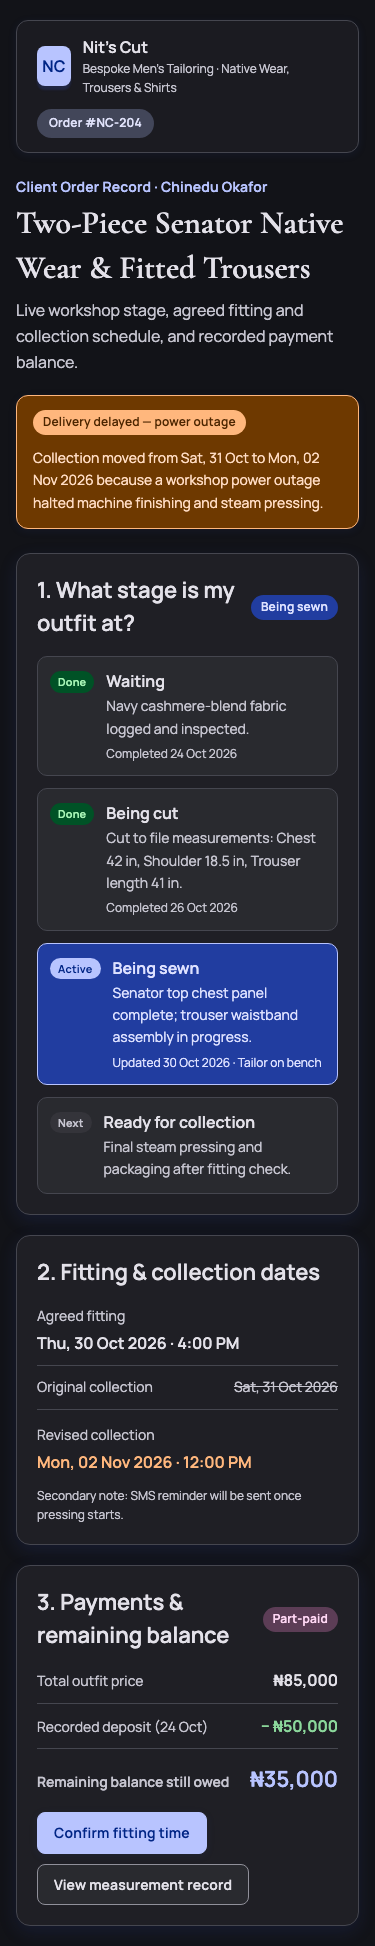
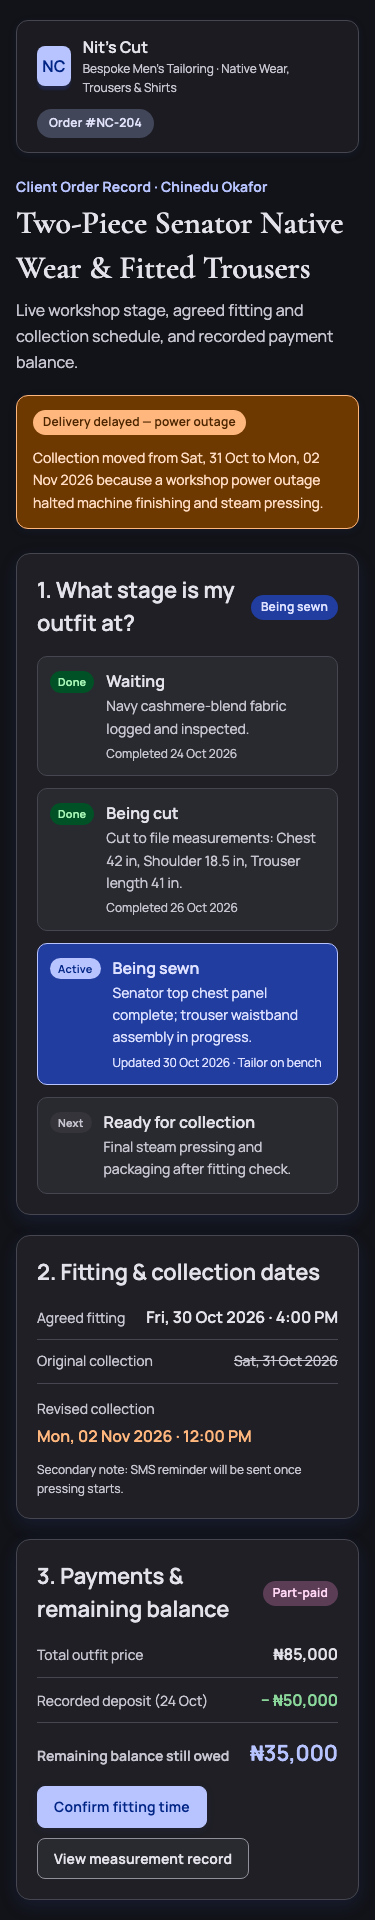
fix(task-01): correct fitting weekday to Fri 30 Oct 2026, refine Q11, and add study guide

diff --git a/task-01-design-system/screen/index.html b/task-01-design-system/screen/index.html
@@ -81,7 +81,7 @@
           <dl class="record-list">
             <div class="record-row">
               <dt class="nc-type-body-medium">Agreed fitting</dt>
-              <dd class="nc-type-title-medium">Thu, 30 Oct 2026 · 4:00 PM</dd>
+              <dd class="nc-type-title-medium">Fri, 30 Oct 2026 · 4:00 PM</dd>
             </div>
             <div class="record-row">
               <dt class="nc-type-body-medium">Original collection</dt>

diff --git a/outputs/screen-without-system/index.html b/outputs/screen-without-system/index.html
@@ -75,7 +75,7 @@
           <dl class="date-list">
             <div class="date-row">
               <dt>First fitting</dt>
-              <dd>Thu, 30 Oct 2026 · 4:00 PM</dd>
+              <dd>Fri, 30 Oct 2026 · 4:00 PM</dd>
             </div>
             <div class="date-row">
               <dt>Original collection</dt>

diff --git a/task-01-design-system/docs/interview-and-defects-study-guide.md b/task-01-design-system/docs/interview-and-defects-study-guide.md
@@ -1,0 +1,267 @@
+# Nits Cut Task 1 interview study guide
+
+Prepared on 31 October 2026. This is a learning companion to your formal interview answers and defect log. Read it to understand the ideas, then practise explaining them in your own words. The sample answers describe project work; they do not mean you must claim you personally wrote every script.
+
+## Your project in everyday words
+
+Nit's Cut is a fictional business that makes men's native wear, trousers and shirts. While learning tailoring, you saw power cuts and too much work cause missed deadlines. Your demonstration screen helps customers see their outfit's stage, fitting and collection dates, and payment balance.
+
+Task 1 builds the visual rules for that screen and proves that an AI agent followed them. It does not prove that a working order database, payment service or SMS system exists. The screen uses sample information.
+
+Think of the design system as a tailoring specification. A tailor needs agreed fabric, measurements and finishing instructions. An agent needs agreed colours, text styles and rules for applying them. You still inspect the finished result.
+
+## Small dictionary
+
+| Word | Simple meaning | Example in your project |
+|---|---|---|
+| Token | A named, reusable design setting | A colour, text size or shadow |
+| Primitive | A basic value from the palette | The blue #334DAF |
+| Semantic role | A name describing a colour's job | Primary action colour or page background |
+| Alias or reference | A setting that points to another setting | Primary points to a palette tone |
+| Component | A reusable piece of the interface | Button, badge or card |
+| Typography | Rules for how text looks | Font, weight, size, spacing and line height |
+| Contrast | How different text is from its background | Dark text on a pale card |
+| Theme | A coordinated set of colour assignments | Light or Dark |
+| JSON | A structured file that stores the exported settings | Your Figma token export |
+| CSS | Instructions telling the browser how a page looks | Apply the primary colour to a button |
+| Validator | A script that checks rules | Reject a colour role containing a raw hex value |
+| Regression | Something that previously worked becoming wrong | A role losing its palette reference |
+| Specificity | The priority used when CSS rules compete | A general rule unexpectedly beating a colour class |
+| Glyph | A drawn character inside a font | The Naira sign, ₦ |
+
+## The twelve interview questions
+
+### 1 How would you structure design tokens
+
+**What they are asking:** How do you organise the settings so they are easy to reuse and change?
+
+**A simple answer:** I separate basic values from their jobs. The palette stores my actual colour values. Roles such as primary, surface and on-surface point to that palette. The screen uses the roles. I also keep reusable text styles and shadows. A larger project could add settings for individual components.
+
+**Your example:** In Light mode, the primary role points to primary tone 40, which is #334DAF. A button asks for primary rather than copying that blue into its own stylesheet.
+
+**Remember:** Basic value → job → screen element. The organisation is similar to keeping a fabric specification separate from the instruction saying where that fabric is used.
+
+### 2 When is a token change breaking
+
+**What they are asking:** When can changing one shared setting damage existing screens?
+
+**A simple answer:** A change is breaking when something using the setting no longer works as intended. Deleting a colour name can remove styling. Changing a colour can make text difficult to read. Increasing text size can make a button label overflow. I check the actual screens, not just whether the setting still exists.
+
+**Your example:** A button background and its text colour must still work together after a brand update. Passing a colour check alone does not prove every layout still works.
+
+### 3 How would you support multiple brands and themes
+
+**What they are asking:** Can the same screen work with different appearances without rewriting every button and card?
+
+**A simple answer:** I keep the role names the same and change what they point to. Surface can point to a pale tone in Light mode and a dark tone in Dark mode. Components continue asking for surface. Another brand could supply a different palette and fonts while keeping those same jobs.
+
+**Your current position:** Both Light and Dark now have 57 role assignments in CSS. Multiple brands are a possible extension, not something already built. The extra theme data came from a previously captured Figma state because a fresh Figma connection was unavailable. It was not a new live export.
+
+### 4 Can tokens guarantee accessible contrast
+
+**What they are asking:** Does using approved colour names automatically make all text readable?
+
+**A simple answer:** No. A colour can be correct but used on the wrong background. Transparency, pictures or a competing CSS rule can also change the result. Our checked pairs pass their thresholds, but I still need to inspect how the screen actually uses them.
+
+**Your example:** D8 showed that the screen could use token names and still display unintended colours because another CSS rule won.
+
+**Remember:** A good ingredient does not guarantee a good finished result. Passing these checks is not a claim that the whole application meets every accessibility requirement.
+
+### 5 How do you check contrast
+
+**What they are asking:** What practical steps do you take to make text and important controls visible?
+
+**A simple answer:** First I check the intended foreground and background pairs. Then I check that the code uses the right roles. Finally I inspect the colours the browser actually displays. I repeat the checks for the themes and states I use, and fix or restrict combinations that fail.
+
+**Numbers to remember:** Normal text generally needs at least 4.5 to 1 for AA. Large text needs 3 to 1. Essential non-text visual information also has applicable 3 to 1 requirements. There are exceptions, so these are not a rule that every decorative line must pass.
+
+**Your evidence:** The colour document records 116 selected pairs across two modes. The browser report also records the corrected date and payment colours. Do not claim every interactive state was tested unless its evidence exists.
+
+### 6 What is the difference between A AA and AAA
+
+**What they are asking:** Do you understand the different levels of accessibility requirements?
+
+**A simple answer:** A covers basic requirements. AA includes A and adds further requirements; it is a common target. AAA includes both earlier levels and adds stricter requirements. These levels cover much more than colours, including keyboard use and how people understand and navigate content.
+
+**Useful contrast example:** For normal text, AA requires 4.5 to 1 and AAA requires 7 to 1. For large text, those figures are 3 to 1 and 4.5 to 1. A does not set a minimum numeric text contrast ratio. Reflow and Text Spacing are AA requirements.
+
+**Do not say:** “My app is AAA because some text pairs exceed 7 to 1.” That checks one part of accessibility, not the whole page.
+
+### 7 Why is semantic HTML important
+
+**What they are asking:** Why use the proper HTML element instead of making everything look right with styling?
+
+**A simple answer:** The proper element tells the browser and assistive technology what something is. A heading identifies a section. A real button has built-in keyboard behaviour. A list describes related items. This helps people understand and operate the page.
+
+**Your example:** The tailoring stages use an ordered list. Payment labels and values use a description list. The main garment name is a heading.
+
+**Limit:** A button still needs working application behaviour. A status region can support announcements when its content changes; a static screenshot does not prove that screen readers announced it.
+
+### 8 How do you hand a Figma design to developers
+
+**What they are asking:** How do you transfer the actual design rules rather than just send a picture?
+
+**A simple answer:** I provide named Figma variables and styles, export their settings, and check the export. A script converts the data into CSS. I provide usage instructions and known limitations, then compare the built screen with the intended system.
+
+**Your example:** The first export omitted colour variables. The next included them but lacked separate theme mappings. Checking the files caught both gaps. The supplementary saved Figma state supplied the missing mode assignments.
+
+**Remember:** A handoff includes data, instructions and verification. Exporting a file is only one step.
+
+### 9 Why do AI interfaces look generic and what do you provide
+
+**What they are asking:** How do you give the agent enough direction to make this business recognisable?
+
+**A simple answer:** If I ask only for a good-looking screen, the agent may choose familiar colours and layouts. I give it the business brief, the customer's questions, the generated design settings and explicit rules. Then I inspect its work and ask it to identify the styles it used.
+
+**Your example:** Cormorant Garamond gives large headings a tailored character. Manrope handles everyday details and payment figures. The agent had to use semantic roles instead of choosing new colours per element.
+
+### 10 Why is Display Large line height 79 point 8 pixels
+
+**What they are asking:** Can you explain a precise decision and its trade-offs?
+
+**A simple answer:** The text size is 57 pixels. I used the allowed multiplier 1.4, so 57 × 1.4 equals 79.8. It is the smallest multiplier permitted by the assessment and keeps the line box relatively compact. Using 1.5 makes it 85.5 pixels and takes more space. Using 1.3 makes it 74.1 pixels but breaks the assessment's rule.
+
+**Be honest:** The original spacing specimens were single-line samples. They do not establish whether a two-line heading would feel too loose or crowded. Those visual trade-offs would need a separate comparison.
+
+**Do not confuse:** Letter spacing changes gaps horizontally. Line height controls the vertical space allocated to a line of text.
+
+### 11 What would you organise differently next time
+
+**What they are asking:** Can you identify an improvement and explain the effort it would require?
+
+**A simple answer:** I would choose an export process that includes explicit theme names and all role mappings from the start. Our first colour export had only one mode without a clear mode label. We needed a second data file and extra conversion logic. A clearer export structure would make future updates easier to check.
+
+**The cost:** Setting up and maintaining a more suitable exporter, updating the converter, and validating both themes whenever the design changes.
+
+**Keep it simple:** Say “an explicit structure for Light and Dark mappings.” You do not need to claim that a particular custom JSON field is an official standard.
+
+### 12 Why is exporting hex values not enough for one source of truth
+
+**What they are asking:** Why can one file of colours still lead to inconsistent screens?
+
+**A simple answer:** A list of colours does not explain their jobs. Different elements may share a colour today but need different colours in another theme. I need semantic roles pointing to the palette, plus a repeatable way to regenerate CSS when the source changes. Otherwise the exported file becomes an old copy that people patch by hand.
+
+**Your strongest example:** In the deliberate experiment, we changed the primary palette to green. Correct references followed it. A role containing a fixed blue value stayed blue. We captured that inconsistency and deleted the experiment branch without merging it. The working CSS is now restored to blue.
+
+## Understanding your defects
+
+A defect record explains what was wrong, its effect, how it was discovered and its current status. It is evidence that you inspected the work. Some entries are corrected mistakes; others are remaining limits.
+
+### D1 The export left out Light mode
+
+**In simple words:** The file included colour roles but only one version of each role. That was not enough to build both themes.
+
+**Now:** Both themes are generated using an additional file extracted from saved Figma state. All 114 alias targets match that saved state. This review did not compare it with today's live Figma file.
+
+**Lesson:** Check the contents of an export, not just its filename or size.
+
+### D2 The export did not label its theme
+
+**In simple words:** A colour list without a Light or Dark label can be assigned to the wrong theme.
+
+**Now:** The converter reads explicit mode information from the supplementary file. The original export is preserved with its limitation.
+
+**Lesson:** Values need context. Like an unlabelled set of garment measurements, correct numbers can be used for the wrong purpose.
+
+### D3 Shadow conversion assumes the brand colour
+
+**In simple words:** The converter knows how to make the three current blue shadows follow the primary palette. A future shadow using another colour would need extra handling. The CSS technique also needs browser support.
+
+**Now:** This remains a documented limitation, not a current failure of the three chosen shadows. The validator rejects a raw colour if the converter falls back to one.
+
+**Lesson:** A script can work for today's inputs without handling every possible future input.
+
+### D4 A check complained about a comment
+
+**In simple words:** The validator saw an old collection name in an explanatory comment and wrongly treated it as active styling.
+
+**Now:** Fixed by excluding comments from that check.
+
+**Lesson:** Checks can have bugs too. Investigate a failure instead of automatically changing correct work to silence it.
+
+### D5 The agent guessed that the wrong font rendered
+
+**In simple words:** The agent initially blamed a fallback font without checking the browser. Later inspection and a matching screenshot hash supported that the intended fonts had loaded. The unusual payment digits were connected to the wrong text style, D6.
+
+**Now:** The diagnosis is corrected. Font files are also stored with the project, with their licences, so the page no longer needs the external font service at runtime.
+
+**Lesson:** A declared font name or a visual guess is not proof of the font actually used. Self-hosting removes one external dependency; it does not guarantee instant loading or an offline application.
+
+### D6 The balance used the heading font
+
+**In simple words:** The agent used Cormorant Garamond for the remaining balance even though your rules assign payment figures to Manrope.
+
+**Now:** Fixed to Title Large: Manrope 600, 22-pixel text and 33-pixel line height.
+
+**Lesson:** A valid design-system style can still be used on the wrong element. The problem was a mismatch with your rules, not a universal rule that serif numbers are unreadable.
+
+### D7 The Naira symbol uses a fallback font
+
+**In simple words:** The browser report shows that the digits use Manrope while the ₦ symbol uses a system font with the current font setup.
+
+**Now:** This remains a documented limitation. Its appearance may vary on other operating systems. The observed result concerns the bundled font setup; avoid generalising it to every Manrope font release.
+
+**Lesson:** Check real currency symbols and other characters your customers need, not only ordinary English letters.
+
+### D8 A CSS rule overruled the intended colours
+
+**In simple words:** The general rule for record values had higher priority than the rules for the revised date, paid amount and balance. Those values stayed the general text colour.
+
+**Now:** More specific selectors apply the intended semantic colours. The saved browser report records passing contrast for the checked values in both themes.
+
+**Lesson:** Choosing the right token does not help if the browser applies another rule instead.
+
+### D9 The broken experiment remained in the working CSS
+
+**In simple words:** The experiment branch was gone, but the file used by the screen still contained its broken green-and-blue settings. An independent validation caught this.
+
+**Now:** The broken file is archived as evidence and the application CSS has been regenerated. All 15 current checks pass. The project log attributes the reappearance to an old editor buffer saving over the regenerated file; this review confirms the corrected file, not the historical editor event itself.
+
+**Lesson:** Check the actual files after cleanup. A branch being deleted does not prove the working folder is correct.
+
+## What this review confirmed
+
+- The validator passes all 15 checks on 31 October 2026.
+- Primary tone 40 is #334DAF again and colour roles reference primitives.
+- Both themes have 57 roles. Their 114 saved alias targets match the previously captured Figma state (`work/figma-m3-state.json` → `evidence/06b-tokens-colour-roles-modes-from-figma-state.json`), which is distinct from a fresh live Figma export.
+- The date and payment selector fix (`D8`) exists in the CSS and is verified in the rendered browser report for both Light and Dark themes.
+- The broader raw-colour report (`evidence/07-raw-value-search.txt`) includes commands, explicit exclusions, full code-file matches and explanations of legitimate matches.
+- The brief is 360 words by whitespace count. Each formal interview answer remains under 200 words (134 to 182 words).
+- The refreshed Light (`10c-screen-with-system-light.png`), Dark (`10-screen-with-system.png`), mobile (`10d-screen-with-system-mobile-dark.png`) and without-system (`09-screen-without-system.png`) screenshots show the corrected screen and fitting date (`Fri, 30 Oct 2026 · 4:00 PM`), with earlier captures preserved (`09a`, `10a`, `10b`). The browser report (`evidence/step7-font-loading-verification.txt`) confirms no horizontal overflow at 1280 pixels or 375 pixels.
+- The regression commit (`017694d`) is not contained in any active branch.
+
+## Final refinements completed on 31 October 2026
+
+1. **Fitting date day-of-week corrected:** Changed `"Thu, 30 Oct 2026 · 4:00 PM"` to `"Fri, 30 Oct 2026 · 4:00 PM"` in both `screen/index.html` and `outputs/screen-without-system/index.html`, preserved `09a-screen-without-system-before-date-fix.png` alongside `10a` and `10b`, and refreshed `09`, `10`, `10c`, `10d`, and `step7-font-loading-verification.txt` along with their SHA-256 hashes in `docs/evidence-index.md`.
+2. **Formal interview answer 11 simplified:** Updated Answer 11 in `docs/interview-answers.md` to recommend an explicit structure for Light and Dark role mappings (either named `Light` and `Dark` mode maps in one JSON export or separate Light/Dark files) without presenting custom `$extensions.modes.*` keys as a required official standard.
+3. **Saved Figma state vs. fresh live export distinguished:** Kept explicit across all docs that `06b-tokens-colour-roles-modes-from-figma-state.json` was extracted from the previously captured Figma Variables state (`work/figma-m3-state.json`) because live Figma MCP sign-in was unavailable (`The plugin "figma" needs the user to sign in`), rather than claiming a fresh live export from Figma today.
+4. **Remaining limitations kept visible (`D3` and `D7`):** Kept `D3` (shadow `color-mix()` assumes `primary/40` `#334DAF` and modern browser support) and `D7` (the bundled `Manrope` font setup falls back to the system font `.SF NS` for the single Naira symbol `₦`, `U+20A6`) clearly visible as remaining limitations rather than calling all defects fixed.
+
+## How to practise
+
+Start with your own explanation of the tailoring problem. Then answer each question aloud without reading. For every answer, give one project example and say where you would show the evidence. If you cannot explain a word, return to the dictionary rather than memorising it.
+
+Practise these demonstrations: explain palette versus role; calculate 57 × 1.4; show the missing collections in the first export; show the wrong payment style and its correction; compare the blue screen with the deliberately broken green-and-blue screen.
+
+Be clear about your contribution: you chose the business and design direction, instructed the agent, reviewed the results and learned to check its claims. Only describe actions as your own when that reflects what you actually did.
+
+Your remaining learner work is understanding and rehearsing the answers, final submission review, and deciding whether to record the optional four-minute walkthrough. This guide does not claim that rehearsal or recording has happened.
+
+## Where to find the proof
+
+Paths below are relative to task-01-design-system.
+
+| Topic | File |
+|---|---|
+| Formal answers | docs/interview-answers.md |
+| Detailed defect history | docs/defects.md |
+| Colour mappings and ratios | docs/colour-roles.md |
+| Fifteen text styles | docs/type-scale.md |
+| Why defaults changed | docs/divergences.md |
+| Original agent answer | evidence/08-agent-typography-answer.txt |
+| Later corrections | evidence/08b-typography-and-font-fixes-verification.txt |
+| Browser font and colour report | evidence/step7-font-loading-verification.txt |
+| Broken experiment | evidence/11-broken-referencing.png |
+| Deleted branch record | evidence/12-git-log-branch-unmerged.txt |
+
+Accessibility references for further reading: [W3C Reflow](https://www.w3.org/WAI/WCAG22/Understanding/reflow.html), [W3C Text Spacing](https://www.w3.org/WAI/WCAG22/Understanding/text-spacing.html), and [W3C Focus Appearance](https://www.w3.org/WAI/WCAG22/Understanding/focus-appearance.html).

diff --git a/task-01-design-system/docs/evidence-index.md b/task-01-design-system/docs/evidence-index.md
@@ -7,7 +7,7 @@
[5 lines of base64/hex data omitted]
 
 ## Step 5 One-Line Diff (Incomplete vs. Complete Export)
 
@@ -25,17 +25,18 @@ The incomplete export was missing all four colour variable collections; I notice
   1. `task-01-design-system/screen/` check for raw hex/rgb/hsl colour values (`exit=1`, `0` matches).
   2. `task-01-design-system/screen/` check for direct primitive references `--nc-ref-*` (`exit=1`, `0` matches).
   3. Per-file match counts across the whole repository with explanations for every legitimate match category (`nc-tokens.css` primitives, `11b-broken-referencing-nc-tokens.css` regression archive, `outputs/screen-without-system/styles.css` intentional comparison screen, seed checks in `validate-css.mjs` and `work/m3/generate.mjs`, JSON exports, and docs).
[3 lines of base64/hex data omitted]
 - `08b-typography-and-font-fixes-verification.txt`: separate record of the browser font-loading investigation (correcting the unsupported `Georgia` fallback claim in `08-agent-typography-answer.txt`), the fixes applied (`nc-type-title-large` on `₦35,000`, locally bundled `.woff2` fonts with `OFL-*.txt` licence files in `screen/fonts/`, and the `D8` `.record-row dd` specificity fix), and the Dark/Light/mobile verification results.
[14 lines of base64/hex data omitted]
 
 ## Step 8 — The Deliberate Regression
 

diff --git a/task-01-design-system/docs/decision-log.md b/task-01-design-system/docs/decision-log.md
@@ -63,4 +63,9 @@ Observed result: `docs/interview-answers.md` (12/12 answers passing word-count c
 ## Final Task 1 reconciliation, Light-mode generation, D8 fix, and local commit — 2026-10-31
 Requirement: Restore `tokens/generated/nc-tokens.css` (preserving `11b-broken-referencing-nc-tokens.css`), fix the `D8` `.record-row dd` specificity bug, complete Light-mode support from Figma without overwriting Step 5 exports, verify font rendering and desktop/mobile layout without clipping, update `07-raw-value-search.txt` across the entire first-party codebase, shorten `business-brief.md` below 400 words total, reconcile all docs/checklists, audit Task 1 requirements, and create a local Git commit on `main`.
 Decision and reason: Archived the broken Step 8 CSS as `evidence/11b-broken-referencing-nc-tokens.css` (`0d52ebd7…`), extracted both Figma modes (`Light` `19:1` and `Dark` `19:2`) from `work/figma-m3-state.json` into `evidence/06b-tokens-colour-roles-modes-from-figma-state.json` (`9042051d…`) after live Figma MCP reported `The plugin "figma" needs the user to sign in`, extended `build-css.mjs` and `validate-css.mjs` to emit and validate `:root, [data-theme="light"]` and `[data-theme="dark"]` (`15/15` checks passing, `evidence/step6b-light-and-dark-css-validation.txt`), fixed `.record-row dd.<class>` specificity and mobile `@media (max-width: 48rem)` responsive stacking in `screen/styles.css`, preserved `10b-screen-with-system-before-d8-specificity-fix.png` (`620dad09…`), refreshed `10-screen-with-system.png` (`4f30bdcf…`) plus `10c-screen-with-system-light.png` (`a0e5bb40…`) and `10d-screen-with-system-mobile-dark.png` (`d3ca74b0…`), updated `07-raw-value-search.txt` across `task-01-design-system/`, `outputs/`, and `work/`, shortened `business-brief.md` to 360 words total (including note and headings), and reconciled all documentation.
-Observed result: All 15 CSS validation checks pass (`exit=0`); `0` raw colours and `0` `--nc-ref-*` references in `task-01-design-system/screen/`; Dark and Light semantic overrides verified above `4.5:1` AA contrast; desktop (`1280×960`) and mobile (`375×812`) viewports verified with zero horizontal overflow; local commit created on `main` (nothing pushed).
+Observed result: All 15 CSS validation checks pass (`exit=0`); `0` raw colours and `0` `--nc-ref-*` references in `task-01-design-system/screen/`; Dark and Light semantic overrides verified above `4.5:1` AA contrast; desktop (`1280×960`) and mobile (`375×812`) viewports verified with zero horizontal overflow; local commit `3576087` created on `main` (nothing pushed).
+
+## Fitting date correction (`Fri, 30 Oct 2026`), Answer 11 refinement, and study guide update — 2026-10-31
+Requirement: Correct `"Thu, 30 Oct 2026"` to `"Fri, 30 Oct 2026"` in both demonstration screens while preserving historical evidence; revise Interview Answer 11 without presenting `$extensions.modes.*` as a required official standard; update `docs/interview-and-defects-study-guide.md` and `docs/evidence-index.md`; re-verify tokens and screenshots; and commit locally on `main`.
+Decision and reason: Preserved `09a-screen-without-system-before-date-fix.png` (`7b7d4de6…`), updated `screen/index.html` and `outputs/screen-without-system/index.html` to `"Fri, 30 Oct 2026 · 4:00 PM"`, refreshed `09`, `10`, `10c`, `10d`, and `step7-font-loading-verification.txt` via `tokens/capture-and-verify-screen.mjs`, simplified Answer 11 in `docs/interview-answers.md` (`175` words), and updated `docs/interview-and-defects-study-guide.md`, `docs/evidence-index.md`, and `docs/defects.md` (keeping `D3` and `D7` clearly marked as open limitations).
+Observed result: `validate-css.mjs` passes `15/15` checks (`exit=0`); all 12 interview answers are `134`–`182` words; refreshed screenshots and SHA-256 hashes verified and committed locally on `main`.

diff --git a/task-01-design-system/docs/prompts.md b/task-01-design-system/docs/prompts.md
@@ -181,3 +181,29 @@ The 57 exported role aliases match the documented **Dark** column of `docs/colou
 5. **Updated `evidence/07-raw-value-search.txt`:**
    - Searched the entire first-party codebase (`task-01-design-system/`, `outputs/`, `work/`) with explicit exclusions (`--exclude-dir=.git --exclude-dir=node_modules --exclude-dir=.local-instruction-archive --binary-files=without-match`), recorded exact commands and full outputs, explained all legitimate matches outside `screen/`, and confirmed `0` raw colour values and `0` `--nc-ref-*` primitive references in `task-01-design-system/screen/`.
 
+### Prompt 5 (verbatim, 2026-10-31)
+
+> Finish the remaining Task 1 corrections in /Users/blk/Developer/Five5 assessment task.
+>
+> Read the current project instructions and inspect the working tree first.
+>
+> 1. Correct the fitting date from “Thu, 30 Oct 2026” to “Fri, 30 Oct 2026” wherever it appears in the current demonstration screens. Preserve historical evidence. Refresh affected current screenshots and verification records, including their hashes.
+> 2. Revise interview answer 11 so it recommends explicit Light and Dark mappings without presenting $extensions.modes.Light and $extensions.modes.Dark as a required official standard. Keep the answer under 200 words.
+> 3. Update docs/interview-and-defects-study-guide.md to reflect those corrections. Preserve its simple explanations and distinguish saved Figma state from a fresh live export.
+> 4. Run the relevant token validation and screenshot checks. Confirm the blue brand palette, both themes, correct fonts and date/payment colours remain intact.
+> 5. Update the evidence index and relevant documentation with actual results. Keep D3 and D7 visible as remaining limitations.
+> 6. Follow the commit-quality rules, review and stage only the relevant files, and create a local commit including the study guide. Do not push or rewrite history.
+>
+> Report the checks, commit ID and remaining learner actions. Do not mark my interview rehearsal or optional walkthrough as completed. Stop before Task 2.
+
+### What the agent did
+
+1. **Fitting date correction and screenshot refresh:**
+   - Preserved `evidence/09a-screen-without-system-before-date-fix.png` (`7b7d4de6…`) alongside `10a-screen-with-system-before-fixes.png` (`c5e0252e…`) and `10b-screen-with-system-before-d8-specificity-fix.png` (`620dad09…`).
+   - Changed `"Thu, 30 Oct 2026 · 4:00 PM"` to `"Fri, 30 Oct 2026 · 4:00 PM"` in `task-01-design-system/screen/index.html` and `outputs/screen-without-system/index.html`.
+   - Reran `tokens/capture-and-verify-screen.mjs` to refresh `09-screen-without-system.png` (`1baf3c25…`), `10-screen-with-system.png` (`7960f17f…`), `10c-screen-with-system-light.png` (`21e1c6b8…`), `10d-screen-with-system-mobile-dark.png` (`a68e16ce…`), and `step7-font-loading-verification.txt` (`57794448…`).
+2. **Revised Interview Answer 11 (`docs/interview-answers.md`):**
+   - Replaced the `$extensions.modes.Light` / `$extensions.modes.Dark` phrasing with a recommendation for an explicit structure for Light and Dark role mappings (either named `Light` and `Dark` mode maps in one JSON file or separate `tokens-roles-light.json` and `tokens-roles-dark.json` files), verified at `175` words (`< 200` words).
+3. **Updated `docs/interview-and-defects-study-guide.md`, `docs/evidence-index.md`, `docs/defects.md`, `docs/decision-log.md`, and `PROGRESS.md`:**
+   - Recorded the date and Answer 11 corrections in `docs/interview-and-defects-study-guide.md`, clearly distinguished the previously captured Figma state (`work/figma-m3-state.json` → `06b-tokens-colour-roles-modes-from-figma-state.json`) from a fresh live export, kept `D3` and `D7` marked as open limitations, and refreshed `07-raw-value-search.txt` and `validate-css.mjs` (`15/15` passing).
+

diff --git a/task-01-design-system/docs/defects.md b/task-01-design-system/docs/defects.md
@@ -14,7 +14,7 @@ Real defects found in this task's own files, with their status and resolution as
 - **What:** `06-tokens-complete.json` has no `modeId` or mode name field on its `nc · m3 colour roles` entries. By contrast, Figma's native Variables API (`work/figma-m3-state.json` / `06b-tokens-colour-roles-modes-from-figma-state.json`) keys every role by explicit `modes: [{ name: "Light", modeId: "19:1" }, { name: "Dark", modeId: "19:2" }]`. `tokens/build-css.mjs` now reads the explicit `Light` and `Dark` mode objects from `06b-tokens-colour-roles-modes-from-figma-state.json` and cross-checks that `06-tokens-complete.json` matches the Dark mode `57/57`.
 - **Cost:** Relying on a single-mode plugin export without mode metadata risks silently mislabelling themes if someone re-exports with a different mode active.
 
-## D3 — Shadow colour assumes it equals `primary/40`
+## D3 — Shadow colour assumes it equals `primary/40` (open limitation)
 
 - **Where:** `tokens/build-css.mjs`, lines 134–144 (shadow colour check and `color-mix` rewrite).
 - **What:** Shadows are rewritten as `color-mix(in srgb, var(--nc-ref-primary-40) N%, transparent)`. If the brand colour changes, shadows follow (intended). If a future shadow uses a different colour, the script falls back to the raw hex and warns (which `validate-css.mjs` would then fail). Also, `color-mix()` requires a modern browser; older browsers drop the shadow.
@@ -39,7 +39,7 @@ Real defects found in this task's own files, with their status and resolution as
 - **What:** In the initial build (`10a-screen-with-system-before-fixes.png`), `nc-type-headline-small` (`Cormorant Garamond` Semibold `24px / 33.6px`) was applied to the remaining payment balance inside Card 3, violating `docs/type-scale.md` Section 4 (*"Headline for page headers, Title for order cards and section headers"*) and `docs/business-brief.md` (which assigns order figures and payment balances to `Manrope`). Fixed by changing `dd.amount-owed` to `nc-type-title-large` (`Manrope` Semibold `22px / 33.0px`), verified in `evidence/10-screen-with-system.png` and `evidence/step7-font-loading-verification.txt`.
 - **Production cost (if left unfixed):** Renders an important financial balance in `Cormorant Garamond`'s default old-style descending numerals (`3` and `5` hang below the baseline) instead of `Manrope`'s clean geometric lining numerals (used on `₦85,000` and `− ₦50,000`).
 
-## D7 — `Manrope` lacks a glyph for the Naira currency sign (`₦`, `U+20A6`)
+## D7 — `Manrope` lacks a glyph for the Naira currency sign (`₦`, `U+20A6`) (open limitation)
 
 - **Where:** `screen/fonts/manrope-400-600-latin-ext.woff2` and `screen/index.html` lines 106, 110, and 114 (`₦85,000`, `− ₦50,000`, `₦35,000`).
 - **What:** Verified by `CSS.getPlatformFontsForNode` (`evidence/step7-font-loading-verification.txt`): on `dd.amount-owed (.nc-type-title-large)`, the 6 numeric/punctuation characters (`35,000`) render in `Manrope-SemiBold` (`isCustomFont: true`, `glyphCount: 6`), whereas the single Naira symbol `₦` (`U+20A6`) falls back to the macOS system font `.SF NS` (`isCustomFont: false`, `glyphCount: 1`). Although `Manrope`'s `@font-face` `unicode-range` declares `U+20A0-20AB`, the font file itself does not include a `U+20A6` glyph (unlike `Cormorant Garamond`, which does include `U+20A6`).

diff --git a/task-01-design-system/docs/interview-answers.md b/task-01-design-system/docs/interview-answers.md
@@ -126,11 +126,11 @@ Within the assessment's required line-height formula (`font size × 1.4`, `1.5`,
 
 I would change how **`nc · m3 colour roles` was exported in `evidence/06-tokens-complete.json` (Defects `D1` and `D2` in `docs/defects.md`)**.
 
-In Step 5, the third-party Figma export plugin wrote only one flat alias per role under `nc · m3 colour roles` (`{nc · m3 primitives.primary.80}`), with no mode key indicating whether the export came from Light or Dark mode (`57/57` match with Dark `19:2`, `14/57` with Light `19:1`). To emit both `:root, [data-theme="light"]` and `[data-theme="dark"]` in `nc-tokens.css`, we had to extract a second file (`06b-tokens-colour-roles-modes-from-figma-state.json`) from our captured Figma Variables API state (`work/figma-m3-state.json`) and teach `tokens/build-css.mjs` to merge two different JSON schemas.
+In Step 5, the third-party Figma export plugin wrote only one flat alias per role under `nc · m3 colour roles` (`{nc · m3 primitives.primary.80}`), with no mode label indicating whether the export came from Light or Dark mode (`57/57` match with Dark `19:2`, `14/57` with Light `19:1`). To emit both `:root, [data-theme="light"]` and `[data-theme="dark"]` in `nc-tokens.css`, we had to extract a second file (`06b-tokens-colour-roles-modes-from-figma-state.json`) from our previously captured Figma Variables state (`work/figma-m3-state.json`) and teach `tokens/build-css.mjs` to merge two different JSON structures.
 
-**What I would do instead:** Export directly from Figma's native Variables REST/Plugin API or a W3C DTCG multi-mode exporter from day one so every role carries explicit `$extensions.modes.Light` and `$extensions.modes.Dark` aliases inside a single authoritative JSON file.
+**What I would do instead:** Use an export workflow from day one that outputs an explicit structure for Light and Dark role mappings—either a single JSON file with named `Light` and `Dark` mode maps per role or separate `tokens-roles-light.json` and `tokens-roles-dark.json` exports.
 
-**What it would cost:** Replacing the single-click third-party export plugin with a custom Figma plugin script or REST export step, and roughly doubling the role-mapping block in `nc-tokens.css` (from 57 to 114 role declarations).
+**What it would cost:** Setting up and maintaining a multi-mode exporter or script, updating the converter when modes change, and roughly doubling the role-mapping block in `nc-tokens.css` (from 57 to 114 declarations).
 
 ---
 
